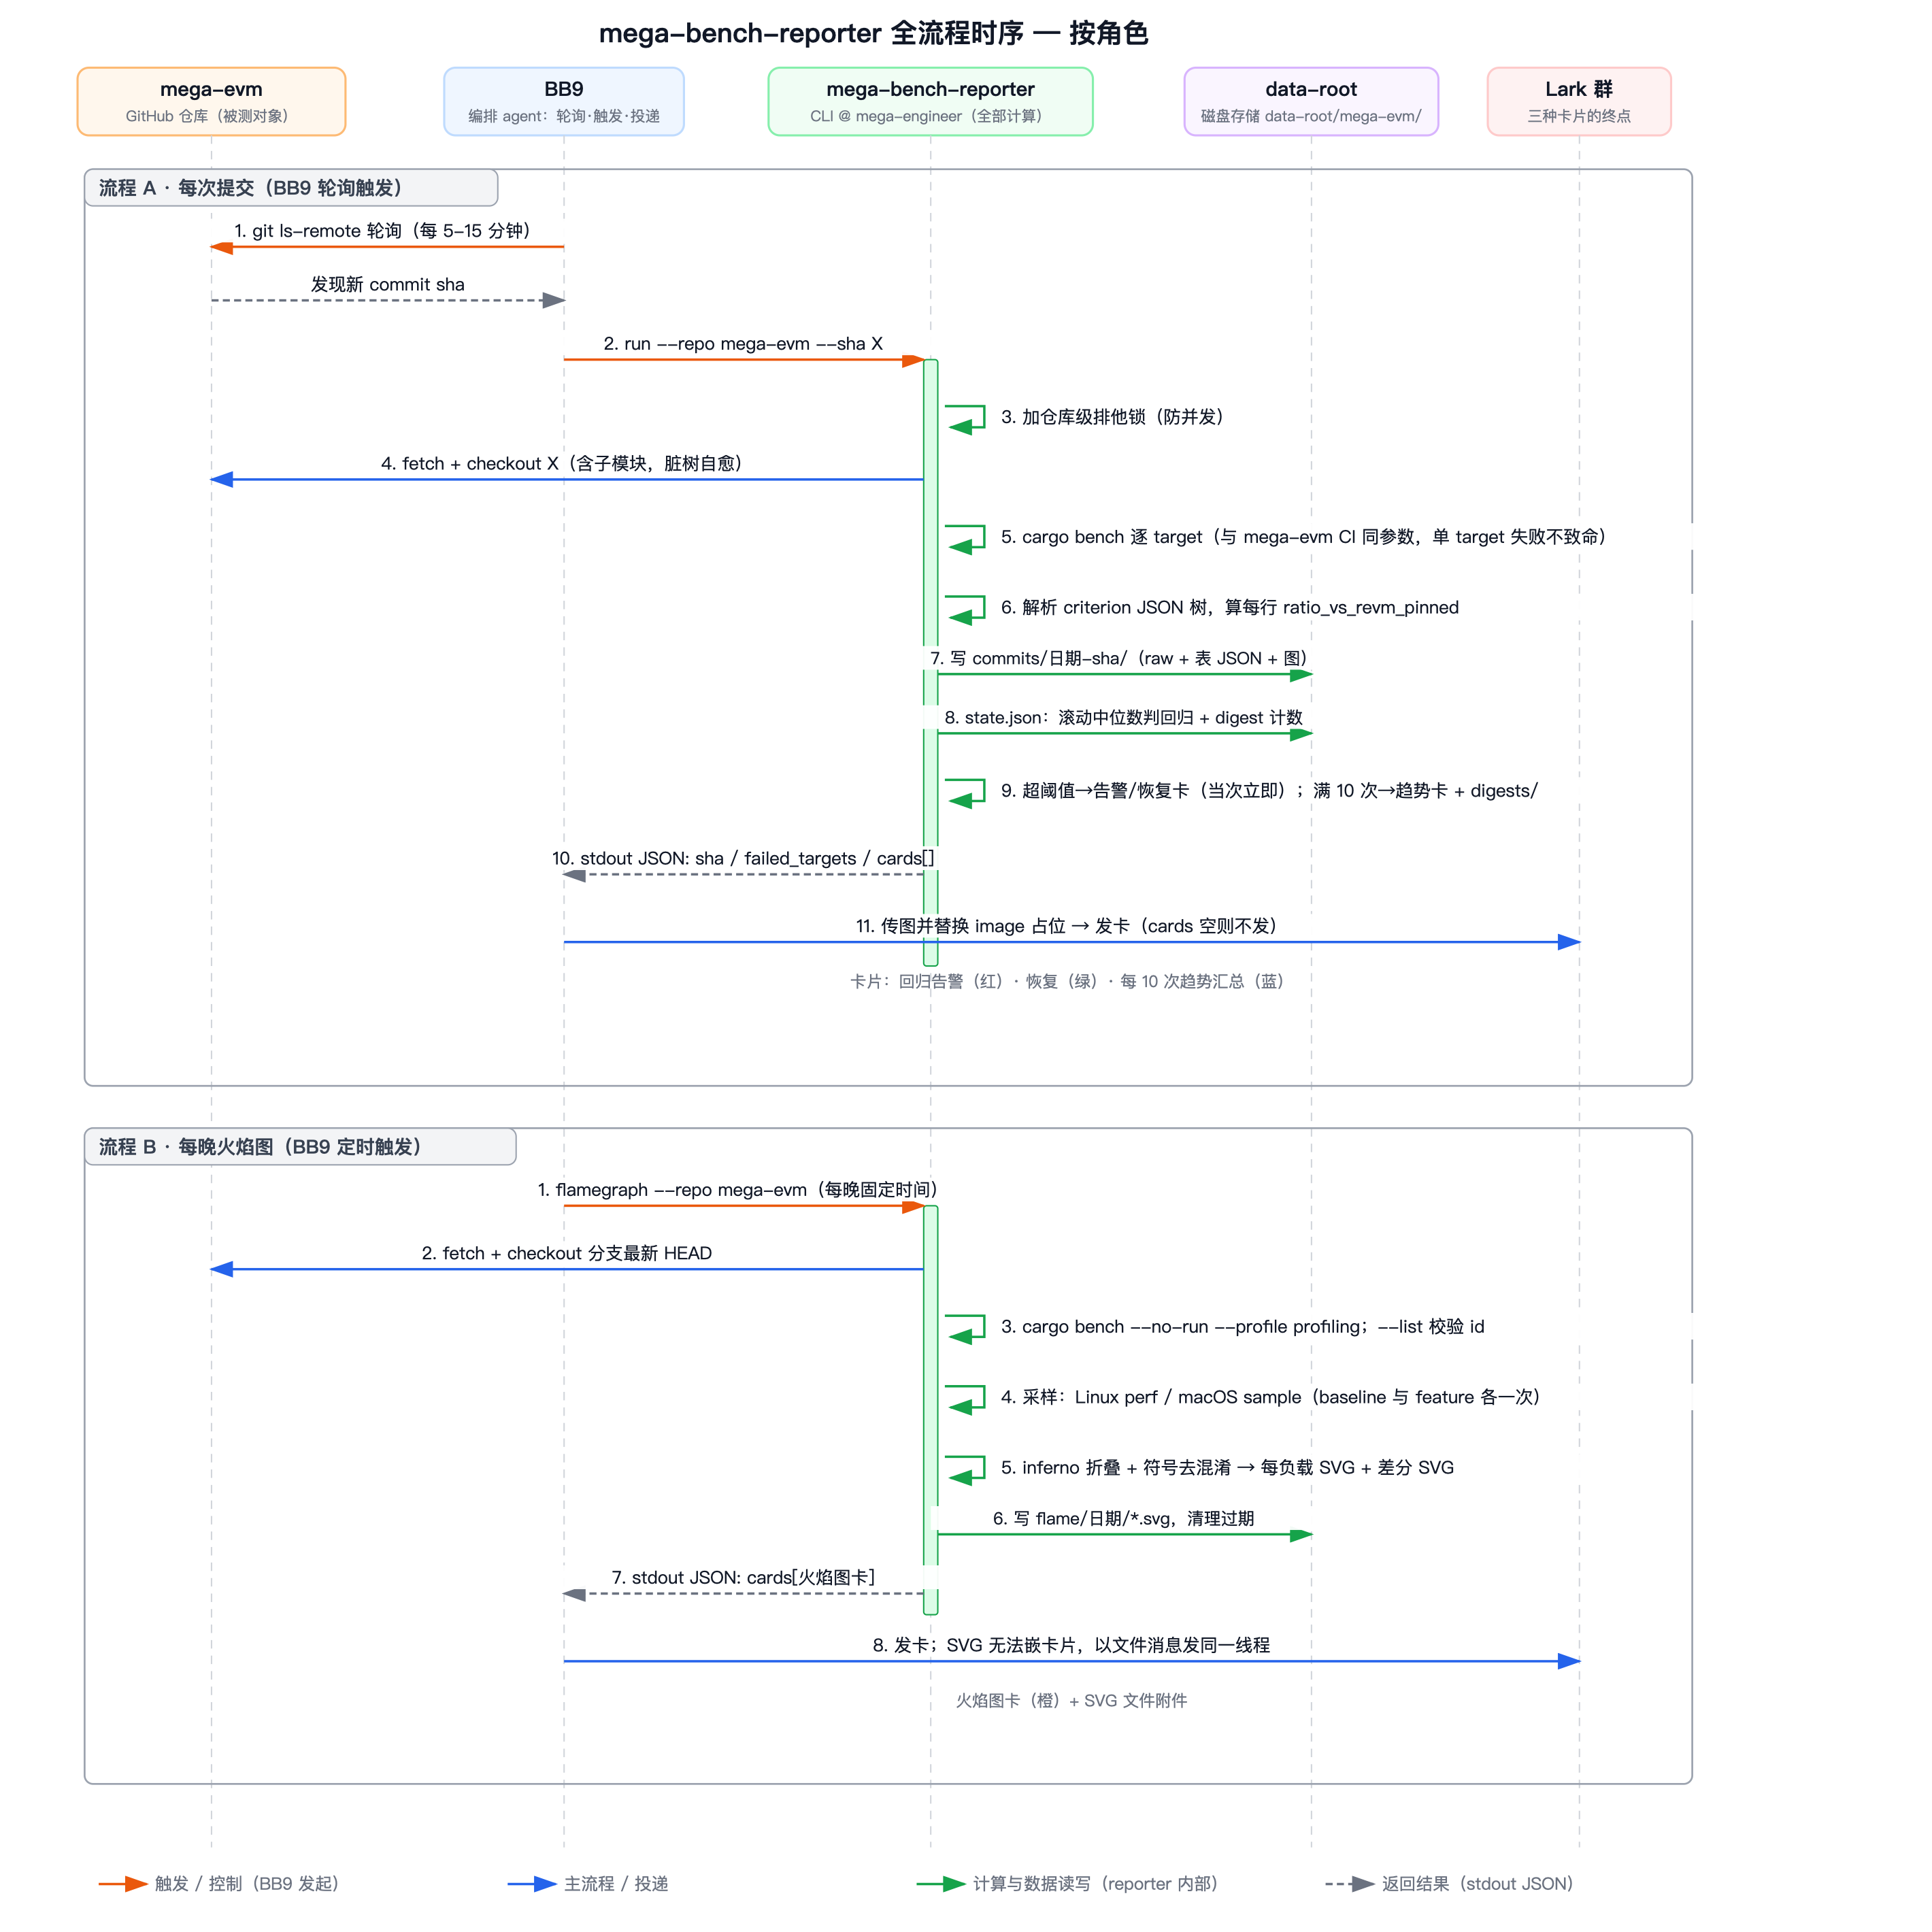
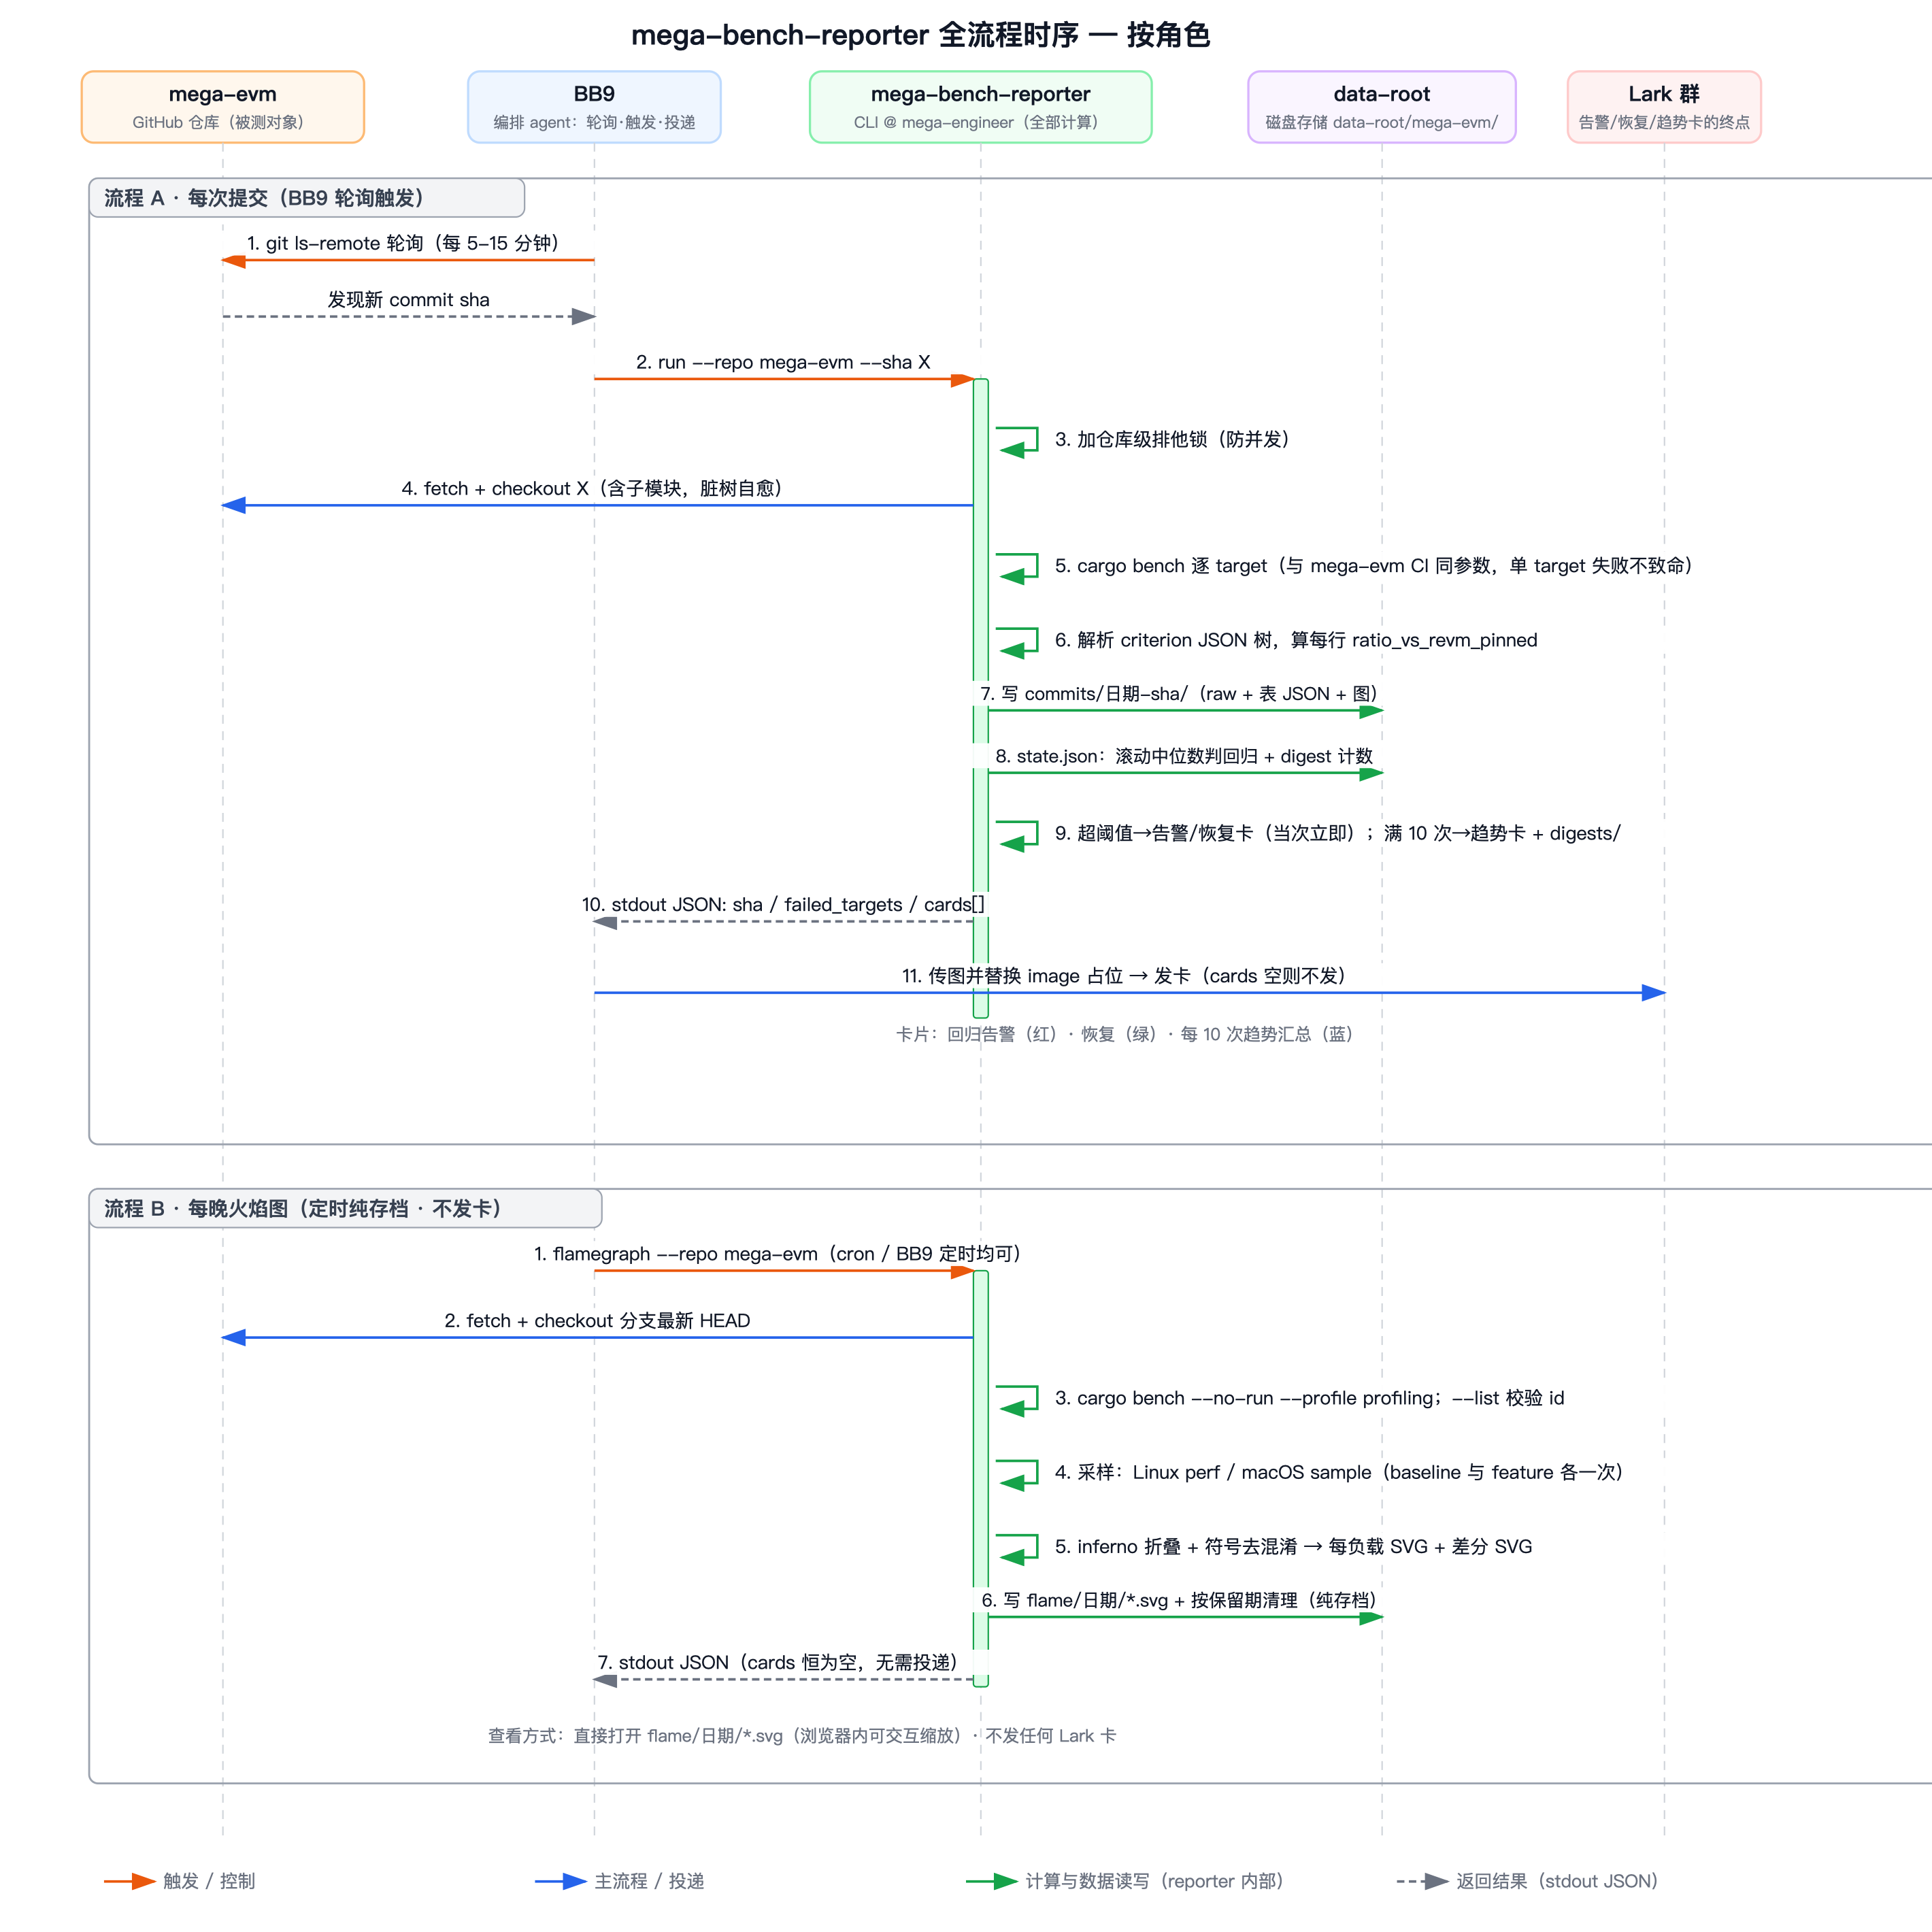
feat: make the nightly flamegraph archive-only
No card is rendered and the flamegraph subcommand's stdout always has
an empty cards array — the SVGs under flame/<day>/ are the deliverable,
viewed directly. Any timer (plain cron) can schedule it; no relaying
agent involvement. Flamegraph card template, params, and CardKind
variant removed; docs, skill references, TODO, and the role sequence
diagram updated.

diff --git a/src/cards.rs b/src/cards.rs
@@ -1,5 +1,5 @@
-//! Lark card rendering (Task 1.6). The three card layouts (regression alert /
-//! trend digest / flamegraph) live as JSON template files in `templates/` —
+//! Lark card rendering (Task 1.6). The card layouts (regression alert /
+//! trend digest) live as JSON template files in `templates/` —
 //! changing a card's look
 //! is a template edit + test, never string-building in code and never a BB9
 //! change.
@@ -13,9 +13,7 @@
 //! 3. Every `img` element's `img_key` is the placeholder `${image:<basename>}`
 //!    and the image's path is listed in [`RenderedCard::attachments`]. The
 //!    relaying agent (BB9) uploads each attachment to Lark and string-replaces
-//!    the placeholder with the returned `image_key` before posting. SVG
-//!    attachments (flame graphs) are not embeddable as card images — they are
-//!    listed in `attachments` for BB9 to post as plain file messages.
+//!    the placeholder with the returned `image_key` before posting.
 
 use serde::Serialize;
 use serde_json::Value;
@@ -24,7 +22,6 @@ use std::path::{Path, PathBuf};
 
 const TEMPLATE_REGRESSION_ALERT: &str = include_str!("../templates/regression_alert.json");
 const TEMPLATE_TREND_DIGEST: &str = include_str!("../templates/trend_digest.json");
-const TEMPLATE_FLAMEGRAPH: &str = include_str!("../templates/flamegraph.json");
 
 /// Which of the card layouts a rendered card came from — serialized alongside
 /// the card so the relaying agent can log/route without inspecting the JSON.
@@ -34,7 +31,6 @@ pub enum CardKind {
     RegressionAlert,
     Recovery,
     TrendDigest,
-    Flamegraph,
 }
 
 /// A ready-to-post card: the Lark card JSON plus the local files BB9 must
@@ -343,60 +339,6 @@ pub fn render_digest_card(params: &DigestCardParams<'_>) -> anyhow::Result<Rende
     render_template(TEMPLATE_TREND_DIGEST, CardKind::TrendDigest, &vars, &images, &[])
 }
 
-/// Params for the flamegraph card. Flame graphs are SVGs — not embeddable as Lark
-/// card images — so they ride along as plain attachments for BB9 to post as
-/// files, and the card body just describes them.
-#[derive(Debug, Clone)]
-pub struct FlamegraphCardParams<'a> {
-    pub repo_name: &'a str,
-    pub github: &'a str,
-    pub sha: &'a str,
-    /// `YYYYMMDD` of the nightly run.
-    pub day: &'a str,
-    /// `(workload id, svg path, optional differential svg path)` triples.
-    pub workloads: Vec<(String, PathBuf, Option<PathBuf>)>,
-}
-
-pub fn render_flamegraph_card(params: &FlamegraphCardParams<'_>) -> anyhow::Result<RenderedCard> {
-    if params.workloads.is_empty() {
-        anyhow::bail!("flamegraph card requested with no workloads");
-    }
-    let title = format!("🔥 {} 每日火焰图 {}", params.repo_name, params.day);
-    let mut body = format!(
-        "**提交:** {}\n\n**已生成火焰图（SVG 见附件）:**\n",
-        commit_link(params.github, params.sha)
-    );
-    let mut attachments = Vec::new();
-    for (workload, svg, diff_svg) in &params.workloads {
-        let file = svg.file_name().map(|n| n.to_string_lossy()).unwrap_or_default();
-        match diff_svg {
-            Some(diff) => {
-                let diff_file = diff.file_name().map(|n| n.to_string_lossy()).unwrap_or_default();
-                body.push_str(&format!("- **{workload}**: `{file}` + 差分 `{diff_file}`\n"));
-                attachments.push(svg.clone());
-                attachments.push(diff.clone());
-            }
-            None => {
-                body.push_str(&format!("- **{workload}**: `{file}`\n"));
-                attachments.push(svg.clone());
-            }
-        }
-    }
-
-    let vars = BTreeMap::from([
-        ("title", title),
-        ("body_md", body),
-        ("footer", "mega-bench-reporter · 每日定时 perf 采样，差分基线为 revm_pinned".to_string()),
-    ]);
-    render_template(
-        TEMPLATE_FLAMEGRAPH,
-        CardKind::Flamegraph,
-        &vars,
-        &BTreeMap::new(),
-        &attachments,
-    )
-}
-
 #[cfg(test)]
 mod tests {
     use super::*;
@@ -519,39 +461,10 @@ mod tests {
     }
 
     #[test]
-    fn test_flamegraph_card_lists_svgs_as_attachments_without_img_elements() {
-        let params = FlamegraphCardParams {
-            repo_name: "mega-evm",
-            github: "megaeth-labs/mega-evm",
-            sha: "abcdef0123456789",
-            day: "20260702",
-            workloads: vec![(
-                "salt_dynamic_gas/rex5_salt/sstore_100".into(),
-                PathBuf::from(
-                    "/data/mega-evm/flame/20260702/salt_dynamic_gas_rex5_salt_sstore_100.svg",
-                ),
-                Some(PathBuf::from(
-                    "/data/mega-evm/flame/20260702/salt_dynamic_gas_rex5_salt_sstore_100_diff.svg",
-                )),
-            )],
-        };
-        let rendered = render_flamegraph_card(&params).unwrap();
-        assert_eq!(rendered.kind, CardKind::Flamegraph);
-        let text = card_text(&rendered.card);
-        assert!(text.contains("每日火焰图 20260702"));
-        assert!(text.contains("_diff.svg"));
-        // SVGs can't be embedded as card images — attachments only.
-        assert!(!text.contains("${image:"));
-        assert_eq!(rendered.attachments.len(), 2);
-        assert!(!text.contains("{{"));
-    }
-
-    #[test]
     fn test_all_templates_are_valid_json() {
         for (name, template) in [
             ("regression_alert", TEMPLATE_REGRESSION_ALERT),
             ("trend_digest", TEMPLATE_TREND_DIGEST),
-            ("flamegraph", TEMPLATE_FLAMEGRAPH),
         ] {
             serde_json::from_str::<Value>(template)
                 .unwrap_or_else(|e| panic!("template {name} is invalid JSON: {e}"));

diff --git a/src/flamegraph.rs b/src/flamegraph.rs
@@ -9,7 +9,6 @@
 //! thin and OS-bound; folding, demangling, differential folding, and SVG
 //! rendering are pure library calls, testable anywhere.
 
-use crate::cards::{self, FlamegraphCardParams, RenderedCard};
 use crate::config::{FlameWorkloadPair, RepoConfig};
 use crate::pipeline::{commit_meta, ensure_checkout};
 use crate::storage::RepoStore;
@@ -18,13 +17,13 @@ use std::io::{BufReader, Cursor};
 use std::path::{Path, PathBuf};
 use std::process::{Command, Stdio};
 
-/// Everything a `flamegraph` invocation produced.
+/// Everything a `flamegraph` invocation produced. Archive-only: the SVGs land
+/// under `flame/<day>/` and nothing is posted anywhere — no card is rendered.
 #[derive(Debug)]
 pub struct FlamegraphOutcome {
     /// The sha that was actually profiled (branch HEAD at checkout time).
     pub sha: String,
     pub flame_dir: PathBuf,
-    pub card: RenderedCard,
     /// `flame/<day>` directories removed by retention pruning.
     pub pruned: Vec<String>,
 }
@@ -375,8 +374,8 @@ fn profile_with_sample(
 
 /// The complete `flamegraph` subcommand: checkout the tracked branch's HEAD,
 /// build the bench binary once, profile every configured pair, render
-/// per-workload SVGs + one differential per pair into `flame/<day>/`, prune
-/// old days, and render the flamegraph card.
+/// per-workload SVGs + one differential per pair into `flame/<day>/`, and
+/// prune old days. Pure archive — no card, nothing to relay.
 pub fn run_flamegraph_pipeline(
     repo: &RepoConfig,
     data_root: &Path,
@@ -425,7 +424,6 @@ pub fn run_flamegraph_pipeline(
     // Profile and render each unique id exactly once — a baseline shared by
     // several pairs is not re-profiled per pair.
     let mut folded: BTreeMap<&String, Vec<u8>> = BTreeMap::new();
-    let mut svgs: BTreeMap<&String, PathBuf> = BTreeMap::new();
     for FlameWorkloadPair { baseline, feature } in &flame_cfg.workloads {
         for id in [baseline, feature] {
             if folded.contains_key(id) {
@@ -435,12 +433,9 @@ pub fn run_flamegraph_pipeline(
             let svg = flame_dir.join(format!("{}.svg", workload_file_stem(id)));
             render_flamegraph_svg(id, &data, &svg)?;
             folded.insert(id, data);
-            svgs.insert(id, svg);
         }
     }
 
-    let mut card_workloads = Vec::new();
-    let mut listed = std::collections::BTreeSet::new();
     for FlameWorkloadPair { baseline, feature } in &flame_cfg.workloads {
         let diff_svg = flame_dir.join(format!("{}_diff.svg", workload_file_stem(feature)));
         render_differential_svg(
@@ -449,22 +444,10 @@ pub fn run_flamegraph_pipeline(
             &folded[feature],
             &diff_svg,
         )?;
-        card_workloads.push((feature.clone(), svgs[feature].clone(), Some(diff_svg)));
-        if listed.insert(baseline) {
-            card_workloads.push((baseline.clone(), svgs[baseline].clone(), None));
-        }
     }
 
     let pruned = store.prune_flame_dirs(&day, flame_cfg.retention_days)?;
-    let card = cards::render_flamegraph_card(&FlamegraphCardParams {
-        repo_name: &repo.name,
-        github: &repo.github,
-        sha: &meta.sha,
-        day: &day,
-        workloads: card_workloads,
-    })?;
-
-    Ok(FlamegraphOutcome { sha: meta.sha, flame_dir, card, pruned })
+    Ok(FlamegraphOutcome { sha: meta.sha, flame_dir, pruned })
 }
 
 #[cfg(test)]

diff --git a/src/main.rs b/src/main.rs
@@ -42,7 +42,8 @@ enum Command {
         #[arg(long)]
         work_root: Option<PathBuf>,
     },
-    /// Nightly flame-graph pipeline (Linux: `perf`; macOS: `sample`).
+    /// Nightly flame-graph archive (Linux: `perf`; macOS: `sample`).
+    /// Writes SVGs under `flame/<day>/` only — no cards, nothing to relay.
     Flamegraph {
         /// Repo name — must match a `[[repos]]` entry in the config.
         #[arg(long)]
@@ -121,7 +122,8 @@ fn run() -> anyhow::Result<()> {
                 sha: outcome.sha,
                 output_dir: outcome.flame_dir,
                 failed_targets: Vec::new(),
-                cards: vec![outcome.card],
+                // Archive-only: the flamegraph subcommand never emits cards.
+                cards: Vec::new(),
             }
         }
     };

diff --git a/README.md b/README.md
@@ -39,7 +39,7 @@ What one `run` does:
 5. Checks every headline-spec row against its rolling median and renders a regression-alert (or recovery) card on state change.
 6. Every 10th commit, rolls the last 10 records into `digests/<YYYYMMDD>-<range>/{summary.json, trend.png}` plus a trend-digest card.
 
-### Nightly flame graph (Linux / macOS)
+### Nightly flame graph (Linux / macOS) — archive only
 
 ```bash
 mega-bench-reporter flamegraph \
@@ -48,7 +48,8 @@ mega-bench-reporter flamegraph \
   --data-root /srv/mega-bench/data
 ```
 
-Checks out the tracked branch's current HEAD, builds the bench binary once (`cargo bench --no-run --profile profiling`), profiles each configured workload (criterion `--profile-time` mode, `--exact` id matching) with the platform profiler — `perf record` on Linux, the built-in `sample` tool on macOS (1 ms interval, no root) — folds, demangles, and renders SVGs plus one differential SVG per baseline/feature pair via `inferno`, writes `flame/<YYYYMMDD>/`, prunes days past retention, and renders a flamegraph card.
+Checks out the tracked branch's current HEAD, builds the bench binary once (`cargo bench --no-run --profile profiling`), profiles each configured workload (criterion `--profile-time` mode, `--exact` id matching) with the platform profiler — `perf record` on Linux, the built-in `sample` tool on macOS (1 ms interval, no root) — folds, demangles, and renders SVGs plus one differential SVG per baseline/feature pair via `inferno`, writes `flame/<YYYYMMDD>/`, and prunes days past retention.
+This is a pure archive: no card is rendered, `cards` in the output JSON is always empty, and nothing needs relaying — schedule it with plain cron (or any timer) and view the SVGs directly in a browser.
 
 For development, `run --skip-bench` re-renders charts and records from the checkout's existing criterion tree without re-benching (only for the last processed sha — the tree's provenance is unknown for anything else).
 
@@ -81,8 +82,8 @@ Exit code 0 with an empty `cards` array means "nothing to post" (no regression, 
 Relaying rules for the posting agent:
 
 - For every attachment that an `img` element references, upload it to Lark, then string-replace the `${image:<basename>}` placeholder in the card JSON with the returned `image_key`.
-- Flamegraph cards attach SVGs, which Lark cannot embed as card images; post those as plain file messages alongside the card (the card body lists the file names).
-- `kind` is one of `regression_alert`, `recovery`, `trend_digest`, `flamegraph` — useful for logging/routing, no need to inspect the card JSON.
+- `kind` is one of `regression_alert`, `recovery`, `trend_digest` — useful for logging/routing, no need to inspect the card JSON.
+- The `flamegraph` subcommand always emits an empty `cards` array (archive-only); there is nothing to relay for it.
 
 ## Configuration (`repos.toml`)
 
@@ -125,7 +126,7 @@ The list shape is deliberate: adding a second tracked repo is a new `[[repos]]` 
   digests/<YYYYMMDD>-<first>..<last>/
     summary.json          # last-N-commits headline series, table-ready (first/last/median per row)
     trend.png             # headline ratios over the window, red rings on threshold-tripping points
-  flame/<YYYYMMDD>/
+  flame/<YYYYMMDD>/       # archive-only: open the SVGs directly, nothing is posted
     <workload>.svg        # one per profiled benchmark id
     <workload>_diff.svg   # differential, feature vs baseline
   state.json              # rolling medians, regression latches, digest counter, last seen sha

diff --git a/TODO.md b/TODO.md
@@ -10,8 +10,7 @@ None of these block using the tool; they need a joint decision or a follow-up ou
    The relaying agent must iterate `cards[]`. Confirm this shape before wiring BB9.
 2. ~~Lark markdown table rendering.~~ **Resolved:** tested on the Lark side, renders fine.
    Additionally, the per-commit comparison table is now emitted as `compare_table.json` (not a PNG) so the relaying agent can assemble a native table.
-3. **Flamegraph SVGs cannot be embedded in cards.**
-   The flamegraph card lists the SVG file names; BB9 should post the attachments as file messages in the same thread.
+3. ~~Flamegraph SVGs cannot be embedded in cards.~~ **Obsolete:** the flamegraph pipeline is now archive-only (user decision, 2026-07-02) — no card, nothing for BB9 to post; SVGs are viewed directly from `flame/<day>/`.
 
 ## Data / repo state
 
@@ -46,7 +45,8 @@ None of these block using the tool; they need a joint decision or a follow-up ou
 10. **Deployment (D9): GitHub repo creation, first push, and a release-artifact workflow.**
     CI (fmt/clippy/test/release-build) is in `.github/workflows/ci.yml`; publishing a binary via GitHub Release is not set up yet.
     Also: nothing has been pushed anywhere — the repo exists only locally.
-11. **BB9 wiring** (poll loop, invoking the CLI on mega-engineer, card relay) — explicitly out of scope here, owner: user.
+11. **BB9 wiring** (poll loop, invoking `run` on mega-engineer, card relay) — explicitly out of scope here, owner: user.
+    Note: only flow A (per-commit) needs BB9 now; the nightly flamegraph can be a plain cron entry on mega-engineer since it posts nothing.
 
 11a. **The design doc's "commit 选择" page has no card equivalent.**
    Navigation of past reports is Lark chat scrollback plus `commits/` on disk (per the revised no-web-page plan); if a browsable index is wanted later, it is a new small feature.
@@ -59,3 +59,4 @@ None of these block using the tool; they need a joint decision or a follow-up ou
 15. Card templates are files in `templates/` but compiled in via `include_str!` — editing one requires a rebuild; keeps the deployable a single binary (D9).
 16. `repos.toml` ships an `https://` clone URL (plan sketched ssh) so the optional `GITHUB_TOKEN` credential-helper path works.
 17. The flamegraph pipeline always runs `cargo bench --no-run` and relies on cargo's cache instead of an explicit "reuse if same-day" check.
+18. The plan's 火焰图 card (Task 2.1 last step) was dropped: the nightly flamegraph is archive-only per user decision (2026-07-02); `flame/<day>/` on disk is the deliverable.

diff --git a/skill/references/cards.md b/skill/references/cards.md
@@ -1,12 +1,13 @@
 # Card templates
 
-The three card layouts are JSON files in `templates/`:
+The card layouts are JSON files in `templates/`:
 
 | template | renders | header |
 |---|---|---|
 | `templates/regression_alert.json` | `regression_alert` (red) and `recovery` (green) — color/title are parameters | parameterized |
 | `templates/trend_digest.json` | `trend_digest`: summary, markdown table, trend chart | blue |
-| `templates/flamegraph.json` | `flamegraph`: workload list; SVGs ride as file attachments, not embedded images | orange |
+
+(The flamegraph pipeline is archive-only and has no card.)
 
 ## Template language (all of it)
 
@@ -18,7 +19,6 @@ The three card layouts are JSON files in `templates/`:
 
 - Alert/recovery cards embed `compare_bars.png` and the dist plots of up to 3 affected rows; the commit dir's `compare_table.json` carries the full numbers table for the relaying agent to render natively.
 - Digest cards embed `trend.png`; the markdown table caps at 15 rows (full data in `summary.json`), the trend chart at 8 series.
-- Flamegraph cards embed nothing; their SVGs are listed in the body and attached as files.
 
 ## Changing a card
 

diff --git a/skill/references/cli.md b/skill/references/cli.md
@@ -15,13 +15,15 @@ What it does: clone/fetch the repo into `<work-root>/<repo>` (default `<data-roo
 - Re-running the sha in `last_seen_sha` refreshes artifacts without touching regression state (retry-safe).
 - `--skip-bench` reuses the checkout's existing criterion tree — for re-rendering charts after a template/chart change, not for production runs. It only accepts the last processed sha (`state.json`'s `last_seen_sha`); anything else is rejected because the tree's provenance is unknown.
 
-## Nightly flamegraph
+## Nightly flamegraph (archive only)
 
 ```bash
 mega-bench-reporter flamegraph --repo mega-evm --config repos.toml --data-root <data-root>
 ```
 
 Checks out the tracked branch's HEAD, builds the bench binary once (`cargo bench --no-run --profile profiling`), verifies each configured benchmark id against `--list`, profiles each unique id (Linux: `perf record` + `perf script`; macOS: the built-in `sample` tool at 1 ms — no root needed), folds + demangles via `inferno`, renders one SVG per workload and one differential SVG per baseline/feature pair, prunes days past retention.
+
+Pure archive: no card is produced (`cards` is always `[]`), so any timer works — plain cron on the box is enough, no relaying agent involvement needed. View the SVGs by opening `flame/<day>/*.svg` in a browser (they are interactive).
 
 ## Environment and safety
 

diff --git a/skill/references/output-contract.md b/skill/references/output-contract.md
@@ -27,7 +27,6 @@ Each invocation prints exactly one JSON document to stdout:
 1. For every attachment that an `img` element references, upload it to Lark.
 2. String-replace the `${image:<basename>}` placeholder in the card JSON with the returned `image_key`.
 3. Post the card JSON as an interactive card.
-4. Flamegraph attachments are SVGs — Lark cards cannot embed them; post them as plain file messages in the same thread as the card (the card body lists the file names).
 
 ## Card kinds
 
@@ -36,6 +35,6 @@ Each invocation prints exactly one JSON document to stdout:
 | `regression_alert` | red | a headline row crossed the threshold this run — post immediately | compare_bars.png + dist plots of affected rows; build the numbers table from the commit dir's `compare_table.json` if wanted |
 | `recovery` | green | a previously-regressed row dropped back under the threshold | same as alert |
 | `trend_digest` | blue | every Nth commit (default 10) | trend.png |
-| `flamegraph` | orange | nightly | per-workload SVG + differential SVG (post as files) |
 
 `kind` is for logging/routing — no need to inspect the card JSON.
+The `flamegraph` subcommand never produces cards (archive-only): its output JSON always has `"cards": []`.

diff --git a/skill/SKILL.md b/skill/SKILL.md
@@ -14,7 +14,7 @@ It never talks to Lark itself: the relaying agent (e.g. BB9) invokes the CLI, re
 |---|---|
 | `mega-bench-reporter run --repo <name> --sha <sha> --config repos.toml --data-root <dir>` | per-commit pipeline: bench → charts → store → regression check → (every Nth commit) trend digest |
 | `mega-bench-reporter run … --skip-bench` | re-render charts/records from the checkout's existing criterion tree (dev/regen; no benching) |
-| `mega-bench-reporter flamegraph --repo <name> --config repos.toml --data-root <dir>` | nightly flame graphs: profile configured workloads (Linux `perf` / macOS `sample`), render SVG + differential |
+| `mega-bench-reporter flamegraph --repo <name> --config repos.toml --data-root <dir>` | nightly flame-graph **archive**: profile configured workloads (Linux `perf` / macOS `sample`), render SVG + differential into `flame/<day>/` — no cards, nothing to relay |
 
 Ground rules: exit 0 = success; stdout carries exactly one JSON document; stderr is logs; runs take as long as the benches take (tens of minutes — no short timeouts); a per-repo lock rejects concurrent invocations; set `GITHUB_TOKEN` only for private repos.
 

diff --git a/skill/references/data-layout.md b/skill/references/data-layout.md
@@ -10,7 +10,7 @@ Everything is under `<data-root>/<repo>/` (repo = `mega-evm`):
 | `commits/<YYYYMMDD>-<shortsha>/dist_<group>[_<workload>].png` | violin plot of per-call time distributions (`/` in workloads becomes `_`) |
 | `digests/<YYYYMMDD>-<first>..<last>/summary.json` | last-N-commits headline series: per-row `ratios[]`, `first`, `last`, `median` |
 | `digests/<YYYYMMDD>-<first>..<last>/trend.png` | headline ratios over the digest window, red rings on threshold-tripping points |
-| `flame/<YYYYMMDD>/<workload>.svg` | flame graph of one benchmark id (nightly) |
+| `flame/<YYYYMMDD>/<workload>.svg` | flame graph of one benchmark id (nightly, archive-only — open directly in a browser) |
 | `flame/<YYYYMMDD>/<workload>_diff.svg` | differential flame graph, feature vs baseline (red = grew, blue = shrank) |
 | `state.json` | rolling windows, regression latches, digest counter, `last_seen_sha` |
 